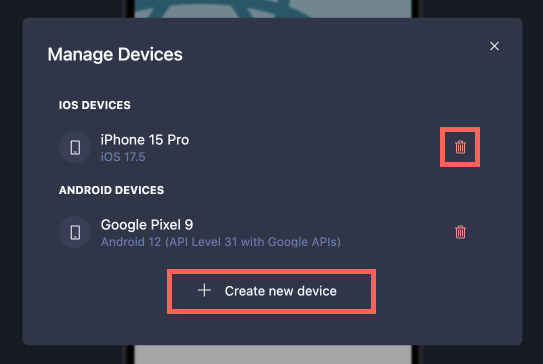
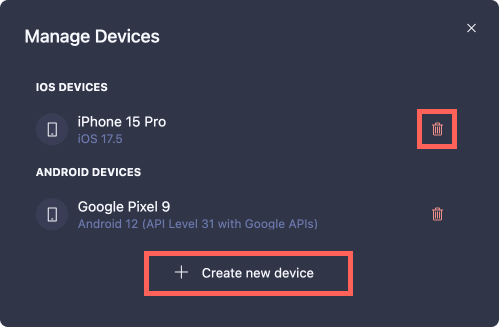
Prettify screenshots

diff --git a/packages/docs/docs/guides/development.md b/packages/docs/docs/guides/development.md
@@ -38,7 +38,7 @@ npm install
 Simulator server repository is not open sourced but we have a pre-build binaries published on the GitHub releases page.
 First, you need to navigate to the [releases page on GitHub](https://github.com/software-mansion/radon-ide/releases), open the recent release, and download the sim-server file from "Assets" section (the filename contains a git hash for build consistency):
 
-<img width="825" alt="download-sim-server" src="/img/docs/download_sim_server.png"/>
+<img width="825" alt="download-sim-server" src="/img/docs/download_sim_server.png" className="shadow-image"/>
 
 Next, place the downloaded file under `packages/vscode-extension/dist`.
 
@@ -64,7 +64,7 @@ code packages/vscode-extension
 This can only be done from withing Visual Studio Code.
 With the extension project open, go to `Run and Debug` panel and click "Start Debugging" button next to "Run Extension" configuration:
 
-<img width="373" alt="run-and-debug" src="/img/docs/run_and_debug.png"/>
+<img width="373" alt="run-and-debug" src="/img/docs/run_and_debug.png" className="shadow-image"/>
 
 Running this configuration will result in the new vscode window being opened.
 This new window is titled "[Extension Development Host]" and is the only window that has the development version of the extension loaded – you should use it to open you React Native project, or try some of the test apps from `test-app` folder.
@@ -82,8 +82,7 @@ Frontend code is setup with hot reload, so changes made to frontend code will up
 Code changes made to the main extension, requires restarting the extension project which will result in the Extension Host window reloading.
 You can use Debug Tool Bar to restart the project:
 
-<img width="438" alt="restart-extension"
-src="/img/docs/restart_extension.png"/>
+<img width="438" alt="restart-extension" src="/img/docs/restart_extension.png" className="shadow-image"/>
 
 For main extension code, you can set breakpoints in vscode and use debugger normally, logs will appear in the Debug Console panel.
 Unfortunately debugging isn't available for the frontend code, however you can use vscode's builtin chrome devtools to see logs or interact with the frontend portion of the project – for this you'll need to run command "Developer: Open Webview Developer Tools" from the command palette in the Extension Host window.

diff --git a/packages/docs/docs/guides/device-management.md b/packages/docs/docs/guides/device-management.md
@@ -14,7 +14,7 @@ You can open the manage devices modal in two ways. From the settings in the top-
 
 The manage devices modal lists all your current devices. Here, you can add new devices with a `+ Create new device` button and remove devices with an red delete icon on the right of the listed device.
 
-<img width="500" src="/img/docs/ide_manage_devices_modal.png" />
+<img width="500" src="/img/docs/ide_manage_devices_modal.png" className="shadow-image" />
 
 ## Create device
 
@@ -24,13 +24,13 @@ The **device type** affects the device frame shown in the Radon IDE preview. Cur
 
 The **system image** is the Android system image or iOS runtime running on the created device. In order for system images to appear in the Radon IDE, they first must be installed in Xcode or Android Studio, respectively. For more information, see [guide to Simulator System Images](/docs/guides/simulators).
 
-<img width="500" src="/img/docs/ide_add_device.png" />
+<img width="500" src="/img/docs/ide_add_device.png" className="shadow-image" />
 
 ## Remove device
 
 Clicking the delete icon in the manage devices modal will ask if you really want to delete this device. A deleted device cannot be restored. If you want to have the same device you deleted, you have to create it again.
 
-<img width="500" src="/img/docs/ide_remove_device.png" />
+<img width="500" src="/img/docs/ide_remove_device.png" className="shadow-image" />
 
 ## Switching current device
 

diff --git a/packages/docs/docs/guides/configuring.md b/packages/docs/docs/guides/configuring.md
@@ -19,10 +19,10 @@ Before you can change any of the options you'll need to create launch configurat
 
 If you have the launch configuration file you can move to the next step.
 Otherwise go to **Run and Build** panel and click **create a launch.json file**:
-<img width="400" src="/img/docs/ide_create_launch_config.png"/>
+<img width="400" src="/img/docs/ide_create_launch_config.png" className="shadow-image"/>
 
 Then, select **Radon IDE** from the dropdown:
-<img width="400" src="/img/docs/ide_launch_config_ide.png"/>
+<img width="550" src="/img/docs/ide_launch_config_ide.png" className="shadow-image"/>
 
 This will create a new file under your workspace directory: `.vscode/launch.json` – this file should be added to version control (git) as it carries configuration that is specific to your project setup rather than user specific editor settings.
 

diff --git a/packages/docs/docs/guides/troubleshooting.md b/packages/docs/docs/guides/troubleshooting.md
@@ -80,7 +80,7 @@ Here is what you can try when the extension got stuck on some errors:
 
 If you need to install an older version of an IDE, you can do so by navigating to the cogwheel menu next to the "install" button in the market place.
 
-<img width="698" alt="download-older-version" src="/img/docs/marketplace_install_older_version.png"/>
+<img width="698" alt="download-older-version" src="/img/docs/marketplace_install_older_version.png" className="shadow-image"/>
 
 ### -sec-num- Configureing Alternative Xcode Versions
 
